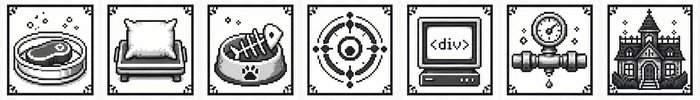
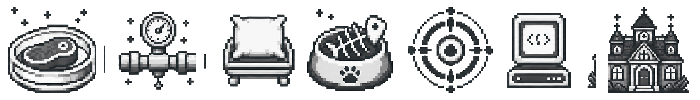
Refresh sprite fidelity and mobile rotate hint

diff --git a/src/styles.css b/src/styles.css
@@ -76,6 +76,10 @@ button:disabled {
   min-width: 0;
 }
 
+.rotate-phone-hint {
+  display: none;
+}
+
 h2,
 p {
   margin-top: 0;
@@ -309,7 +313,30 @@ h2 {
   }
 
   .game-column {
+    position: relative;
     width: 100%;
+  }
+
+  .rotate-phone-hint {
+    position: absolute;
+    top: 10px;
+    left: 50%;
+    z-index: 3;
+    display: inline-flex;
+    align-items: center;
+    gap: 6px;
+    width: max-content;
+    max-width: calc(100vw - 32px);
+    padding: 6px 9px;
+    color: #f8f9f7;
+    background: rgba(37, 38, 40, 0.9);
+    border: 2px solid rgba(248, 249, 247, 0.82);
+    border-radius: 4px;
+    font-size: 0.72rem;
+    font-weight: 900;
+    line-height: 1;
+    transform: translateX(-50%);
+    pointer-events: none;
   }
 
   .stage-wrap {
@@ -327,6 +354,10 @@ h2 {
 }
 
 @media (max-width: 920px) and (orientation: landscape) {
+  .rotate-phone-hint {
+    display: none;
+  }
+
   .app-shell {
     display: grid;
     grid-template-columns: minmax(0, calc(100vw - 246px)) minmax(224px, 1fr);

diff --git a/src/App.tsx b/src/App.tsx
@@ -1,5 +1,5 @@
 import { useEffect, useRef, useState } from "react";
-import { Search } from "lucide-react";
+import { RotateCw, Search } from "lucide-react";
 import upgradeIconsUrl from "./assets/upgrade-icons-monochrome.png";
 import { CanvasStage } from "./CanvasStage";
 import {
@@ -22,12 +22,12 @@ import "./styles.css";
 
 const spriteIndexByUpgrade: Record<keyof UpgradeLevels, number> = {
   bioreactorSpeed: 0,
-  extraRooms: 1,
-  scrapChowStation: 2,
-  alienCleanRoom: 3,
-  agentTerminal: 4,
-  oceanLine: 2,
-  patienceBoost: 5,
+  patienceBoost: 1,
+  extraRooms: 2,
+  scrapChowStation: 3,
+  alienCleanRoom: 4,
+  agentTerminal: 5,
+  oceanLine: 3,
   vipBell: 6,
 };
 
@@ -135,6 +135,10 @@ export default function App() {
   return (
     <main className="app-shell">
       <section className="game-column">
+        <div className="rotate-phone-hint" role="status" aria-live="polite">
+          <RotateCw size={16} aria-hidden="true" />
+          <span>Turn phone horizontally to play</span>
+        </div>
         <CanvasStage
           state={game}
           stats={stats}